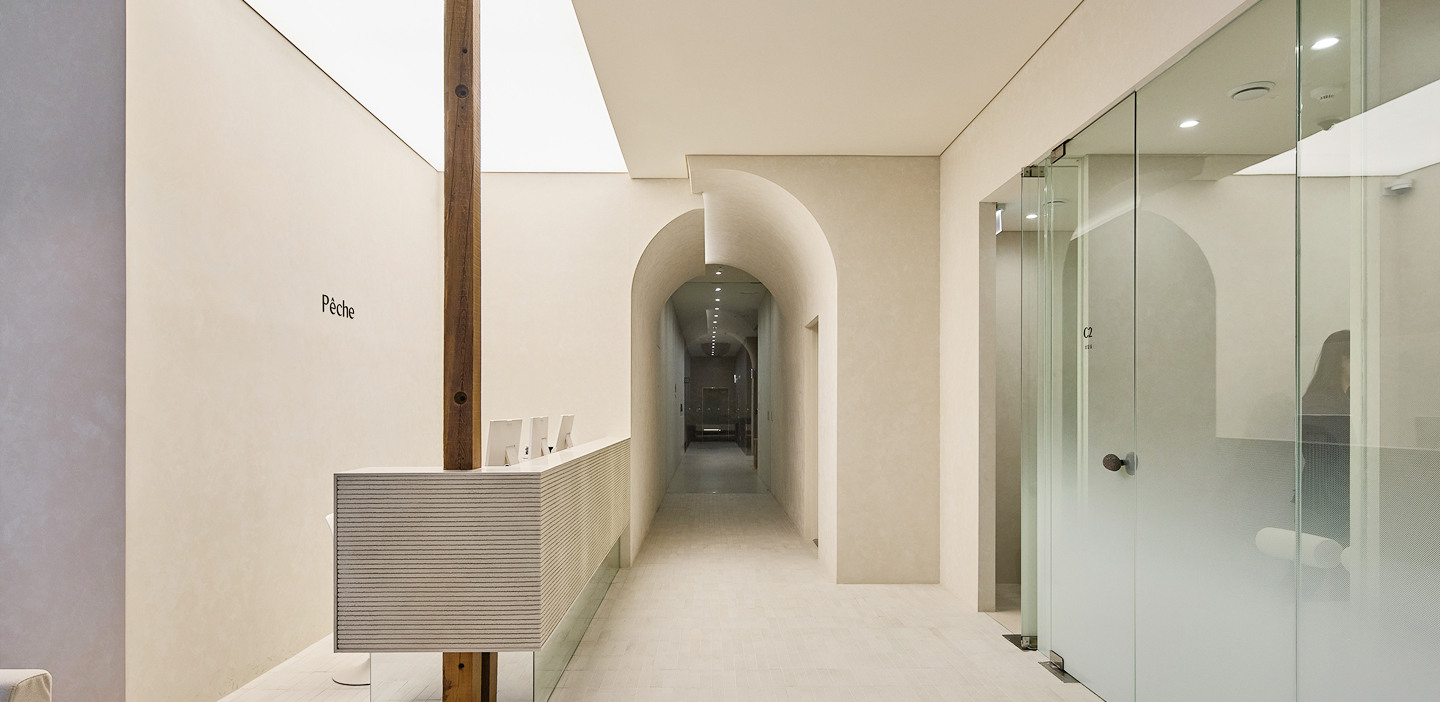
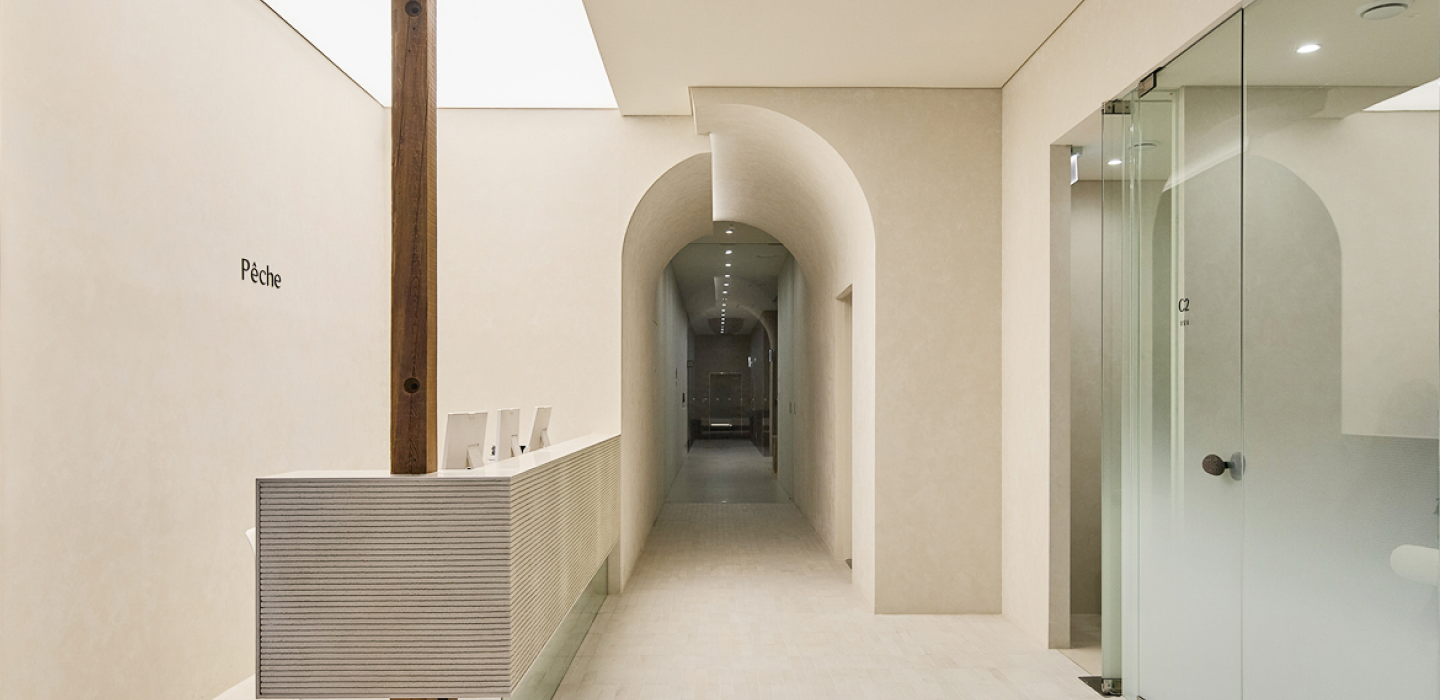
fix: 소개/의료진 페이지 — 레이아웃 통일, 이미지 교체, 텍스트 수정
- 의료진 소개 첫 섹션을 페슈의원 소개와 동일 구조로 통일
- 이미지 1:1 비율 적용 (소개/의료진 공통)
- 본문 간격 통일, 안태언 대표원장 다국어, 푸터 대표자명 통일
- 소개 페이지 텍스트/이미지 수정, 복숭아 이미지 제거

diff --git a/src/pages/doctor/doctor.page.tsx b/src/pages/doctor/doctor.page.tsx
@@ -17,86 +17,67 @@ const PageContainer = tw.div`w-full flex flex-col items-center bg-white`
 const ContentContainer = styled.div`
   ${tw`w-full flex flex-col items-center`}
   gap: 64px;
-  padding: 64px 0;
+  padding: 128px 0 64px;
 
   @media (min-width: 768px) {
     gap: 160px;
-    padding: 80px 0 160px;
+    padding: 128px 0 160px;
   }
 `
 
-/* ── Section 1: 소개 ──
-   PC: row, center, padding=0 120, gap=64
-   MO: row wrap, padding=0 16, gap=48 */
-const Section1 = styled.section`
-  ${tw`w-full max-w-[1440px] flex flex-row flex-wrap justify-center items-center`}
-  gap: 48px;
-  padding: 0 16px;
-
-  @media (min-width: 768px) {
-    ${tw`flex-nowrap`}
-    gap: 64px;
-    padding: 0 120px;
-  }
+/* ── Section 1: 소개 (페슈의원 소개와 동일 구조) ── */
+const Section1 = tw.section`
+  w-full max-w-[1440px] mx-auto px-6 md:px-10
+  flex flex-col lg:flex-row justify-between
+  gap-8 lg:gap-20 xl:gap-28
 `
-/* PC: 568x568  MO: 328x328 */
-const IntroImage = styled.img`
-  ${tw`flex-shrink-0 object-cover`}
-  width: 328px;
-  height: 328px;
-
-  @media (min-width: 768px) {
-    width: 568px;
-    height: 568px;
-  }
+const IntroTextBlock = tw.div`
+  w-full lg:w-1/2 flex flex-col
+  justify-center
+  lg:h-[520px]
 `
-/* PC: column, gap=32  MO: column, gap=16 */
-const IntroTextBlock = styled.div`
-  ${tw`flex flex-col justify-center`}
-  gap: 16px;
-  width: 328px;
-
-  @media (min-width: 768px) {
-    gap: 32px;
-    width: auto;
-  }
+const IntroTitle = styled.h2`
+  ${tw`text-[32px] md:text-[40px] font-semibold leading-[1.4] font-pretendard tracking-tight whitespace-pre-line`}
 `
-/* PC: column, gap=16  MO: column, gap=12 */
-const IntroTextGroup = styled.div`
+const IntroParagraphBlock = styled.div`
   ${tw`flex flex-col`}
-  gap: 12px;
-
-  @media (min-width: 768px) {
-    gap: 16px;
-  }
-`
-/* PC: 600/40px  MO: 600/32px, #DA7F67 */
-const IntroTitle = tw.h2`
-  text-[32px] md:text-[40px] font-pretendard font-semibold text-neutralBlack tracking-tight leading-[1.4] whitespace-pre-line
-`
-/* PC: column, gap=16  MO: column, gap=8 */
-const IntroBodyGroup = styled.div`
-  ${tw`flex flex-col`}
+  margin-top: 16px;
   gap: 8px;
 
   @media (min-width: 768px) {
+    margin-top: 24px;
     gap: 16px;
   }
 `
-/* PC: 500/18px  MO: 500/16px, #666666 */
 const IntroBody = tw.p`
-  text-[16px] md:text-[18px] font-pretendard font-medium text-neutral70 tracking-tight leading-[1.5] whitespace-pre-line
+  text-[16px] md:text-[18px] leading-[1.5] text-neutral70 tracking-tight
+  font-pretendard whitespace-pre-line
 `
-/* 이름 + 직급 블록 */
+const IntroImage = styled.img`
+  ${tw`
+    w-full lg:w-[520px] xl:w-[520px]
+    aspect-square
+    object-cover rounded-none
+    lg:ml-auto
+  `}
+`
+/* row, gap=12 */
 const DoctorNameBlock = styled.div`
-  ${tw`flex items-baseline`}
+  ${tw`flex flex-row`}
   gap: 8px;
+  margin-top: 16px;
+
+  @media (min-width: 768px) {
+    margin-top: 32px;
+  }
 `
+/* Pretendard 700 22px, ls=+2%, #121212 */
 const DoctorName = tw.span`
-  text-[22px] md:text-[26px] font-pretendard font-bold text-neutralBlack tracking-[0.02em] leading-[1.4]
+  text-[22px] font-pretendard font-bold text-neutralBlack tracking-[0.02em] leading-[1.4]
 `
+/* Pretendard 400 22px, ls=+2%, #121212 */
 const DoctorPosition = tw.span`
-  text-[16px] md:text-[18px] font-pretendard font-bold text-neutralBlack tracking-tight leading-[1.4]
+  text-[22px] font-pretendard font-normal text-neutralBlack tracking-[0.02em] leading-[1.4]
 `
 
 /* ── Section 2: 이미지 + 텍스트 ──
@@ -281,24 +262,25 @@ const DoctorPage = () => {
         <ContentContainer>
           {/* Section 1: 소개 */}
           <Section1>
-            <IntroImage src={doctorIntro} alt="안태언 대표원장" />
             <IntroTextBlock>
-              <IntroTextGroup>
-                <IntroTitle>
-                    {t("doctor.introTitlePrefix")}
-                    <span tw="text-primary">{t("doctor.introTitleHighlight")}</span>
-                    {t("doctor.introTitleSuffix")}
-                  </IntroTitle>
-                <IntroBodyGroup>
-                  <IntroBody>{t("doctor.introBody1")}</IntroBody>
-                  <IntroBody>{t("doctor.introBody2")}</IntroBody>
-                </IntroBodyGroup>
-              </IntroTextGroup>
+              <IntroTitle>
+                {t("doctor.introTitlePrefix")}
+                <span tw="text-primary">{t("doctor.introTitleHighlight")}</span>
+                {t("doctor.introTitleSuffix")}
+              </IntroTitle>
+
+              <IntroParagraphBlock>
+                <IntroBody>{t("doctor.introBody1")}</IntroBody>
+                <IntroBody>{t("doctor.introBody2")}</IntroBody>
+              </IntroParagraphBlock>
+
               <DoctorNameBlock>
-                <DoctorName>안태언</DoctorName>
-                <DoctorPosition>대표원장</DoctorPosition>
+                <DoctorName>{t("doctor.introSignName")}</DoctorName>
+                <DoctorPosition>{t("doctor.introSignPosition")}</DoctorPosition>
               </DoctorNameBlock>
             </IntroTextBlock>
+
+            <IntroImage src={doctorIntro} alt="안태언 대표원장" />
           </Section1>
 
           {/* Section 2: 이미지 + 텍스트 */}

diff --git a/src/pages/intro/intro.page.tsx b/src/pages/intro/intro.page.tsx
@@ -40,7 +40,7 @@ const PageContainer = tw.div`w-full flex flex-col items-center bg-white`
 
 /* 2⃣ TRUST Section */
 const SectionTrust = tw.section`
-  w-full bg-white text-neutralBlack pt-32 md:pt-20 pb-16 md:py-32
+  w-full bg-white text-neutralBlack pt-[120px] pb-16 md:pb-32
 `
 
 const TrustInner = tw.div`
@@ -72,8 +72,15 @@ const TrustHeading = styled.h2<{ language: string }>`
 `
 
 // 작은 글씨 섹션
-const TrustParagraphBlock = tw.div`
-  mt-4
+const TrustParagraphBlock = styled.div`
+  ${tw`flex flex-col`}
+  margin-top: 16px;
+  gap: 8px;
+
+  @media (min-width: 768px) {
+    margin-top: 24px;
+    gap: 16px;
+  }
 `
 
 const TrustParagraph = tw.p`
@@ -83,11 +90,12 @@ const TrustParagraph = tw.p`
 
 const TrustImage = styled.img`
   ${tw`
-    w-full lg:w-[550px] xl:w-[704px]
-    h-[280px] md:h-[420px] lg:h-[500px] xl:h-[520px]
+    w-full lg:w-[520px] xl:w-[520px]
+    aspect-square
     object-cover rounded-none
     lg:ml-auto
   `}
+  object-position: left center;
 `
 
 /* ──────────────────────────────
@@ -236,7 +244,7 @@ const SymbolDesc = tw.p`
 
 /* Core Value */
 const CoreValueContainer = tw.div`
-  w-full bg-white rounded-none mt-20 py-14 flex flex-col items-center
+  w-full bg-white rounded-none py-14 flex flex-col items-center
 `
 const CoreTitle = tw.h3`
   text-center text-[18px] md:text-[22px] font-medium text-neutralBlack mb-12 font-time tracking-tight
@@ -401,7 +409,7 @@ const CustomerTrustHeading = tw.h3`
 `
 
 const CustomerTrustParagraph = tw.p`
-  text-[14px] md:text-[16px] text-neutral70 tracking-tight leading-[1.4]
+  text-[14px] md:text-[16px] text-neutral70 tracking-tight leading-[1.4] whitespace-pre-line
 `
 
 /* ──────────────────────────────
@@ -548,11 +556,8 @@ const Intro = () => {
                 </TrustHeadingBlock>
 
                 <TrustParagraphBlock>
-                  <TrustParagraph>
-                    {t("intro.trustParagraph1")}
-                    {"\n"} {"\n"}
-                    {t("intro.trustParagraph2")}
-                  </TrustParagraph>
+                  <TrustParagraph>{t("intro.trustParagraph1")}</TrustParagraph>
+                  <TrustParagraph>{t("intro.trustParagraph2")}</TrustParagraph>
                 </TrustParagraphBlock>
               </TrustTextBlock>
 
@@ -574,47 +579,6 @@ const Intro = () => {
                 {t("intro.symbolDesc2")}
                 <br /> {t("intro.symbolDesc3")}
               </SymbolDesc>
-
-              <HoverGrid>
-                {desktopImages.map((img, index) => (
-                  <HoverItem key={index} className={`item-${index}`}>
-                    <img src={img.src} alt={`peche-${index}`} />
-                    <div className="label">
-                      <p tw="font-time">{t(img.titleKey)}</p>
-                      <p tw="font-pretendard">{t(img.descKey)}</p>
-                    </div>
-                  </HoverItem>
-                ))}
-              </HoverGrid>
-
-              <MobileSwiperWrapper>
-                <Swiper
-                  modules={[Pagination]}
-                  pagination={{ clickable: true }}
-                  spaceBetween={5}
-                  slidesPerView="auto"
-                  centeredSlides={false}
-                  roundLengths
-                  onFromEdge={(swiper) => {
-                    swiper.allowSlideNext = true
-                    swiper.allowSlidePrev = true
-                  }}>
-                  {mobileImages.map((img, i) => (
-                    <StyledSwiperSlide key={i}>
-                      <MobileSlide>
-                        <div className="img-wrapper">
-                          <img src={img.src} alt={`mobile-peche-${i}`} />
-
-                          <div className="label">
-                            <p tw="font-time">{t(img.titleKey)}</p>
-                            <p tw="font-pretendard">{t(img.descKey)}</p>
-                          </div>
-                        </div>
-                      </MobileSlide>
-                    </StyledSwiperSlide>
-                  ))}
-                </Swiper>
-              </MobileSwiperWrapper>
 
               {/* Core Value */}
               <CoreValueContainer>
@@ -648,6 +612,7 @@ const Intro = () => {
               </CoreValueContainer>
             </SymbolInner>
           </SectionSymbolTrust>
+
           <SectionInterior>
             <InteriorTextWrapper>
               {/* 텍스트 */}
